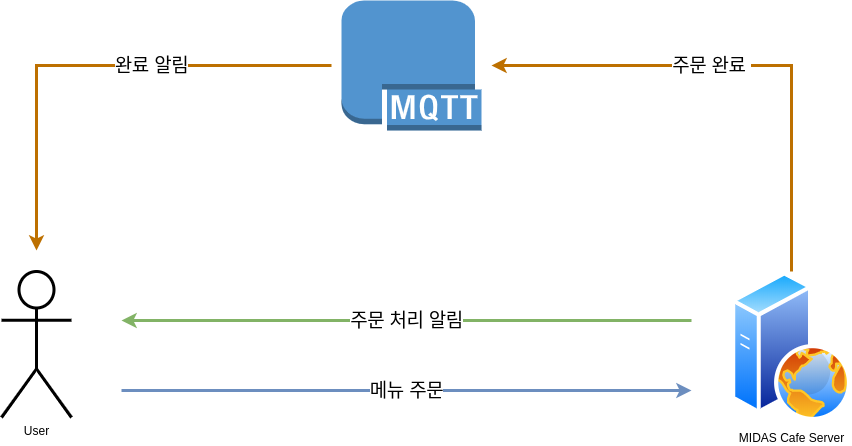
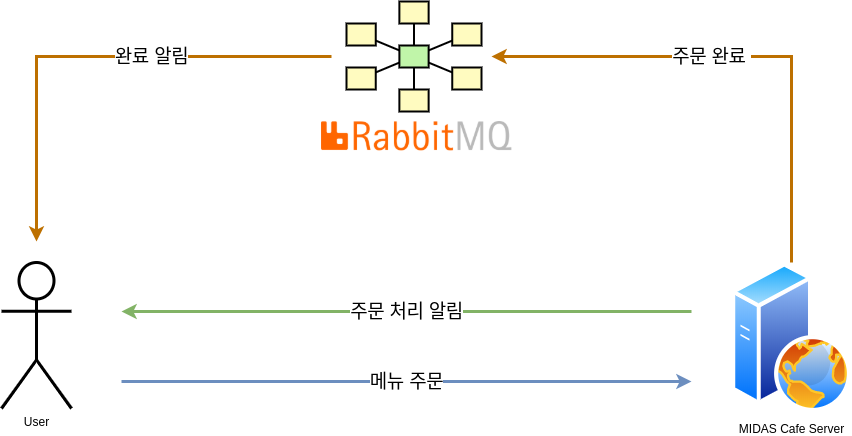
Add Refresh Token API, RabbitMQ (#6)
* Add RabbitMQ...

* Fix Order Processing..

* Add RabbitMQ configuration..

* Add refresh token api and rabbitMQ development environemtn..

* Modified README..

* Additional environment variables..

diff --git a/src/main/java/com/midas2018mobile5/serverapp/dao/order/OrderService.java b/src/main/java/com/midas2018mobile5/serverapp/dao/order/OrderService.java
@@ -3,9 +3,12 @@ package com.midas2018mobile5.serverapp.dao.order;
 import com.midas2018mobile5.serverapp.domain.cafe.Cafe;
 import com.midas2018mobile5.serverapp.domain.order.Order;
 import com.midas2018mobile5.serverapp.domain.user.userEntity.User;
+import com.midas2018mobile5.serverapp.dto.order.OrderDto;
 import com.midas2018mobile5.serverapp.error.exception.order.OrderNotFoundException;
 import com.midas2018mobile5.serverapp.repository.order.OrderRepository;
+import com.midas2018mobile5.serverapp.repository.user.UserRepository;
 import lombok.RequiredArgsConstructor;
+import org.springframework.amqp.core.AmqpTemplate;
 import org.springframework.stereotype.Service;
 import org.springframework.transaction.annotation.Transactional;
 
@@ -20,7 +23,9 @@ import java.util.Optional;
 @Transactional
 @RequiredArgsConstructor
 public class OrderService {
+    private final UserRepository userRepository;
     private final OrderRepository orderRepository;
+    private final AmqpTemplate amqpTemplate;
 
     @Transactional(readOnly = true)
     public Order findById(long id) {
@@ -40,18 +45,30 @@ public class OrderService {
     public Order acceptOrderById(long id) {
         final Order order = findById(id);
         order.setReady();
+
+        amqpTemplate.convertAndSend(order.getUser().getUserid(),
+                OrderDto.Event.builder().order(order).build());
+
         return order;
     }
 
     public Order purchaseOrderById(long id) {
         final Order order = findById(id);
         order.setPurchased();
+
+        amqpTemplate.convertAndSend(OrderEvent.orderProcessBasket,
+                OrderDto.Event.builder().order(order).build());
+
         return order;
     }
 
     public Order finishOrderById(long id) {
         final Order order = findById(id);
         order.setFinish();
+
+        amqpTemplate.convertAndSend(order.getUser().getUserid(),
+                OrderDto.Event.builder().order(order).build());
+
         return order;
     }
 

diff --git a/src/main/java/com/midas2018mobile5/serverapp/config/RabbitMQconfig.java b/src/main/java/com/midas2018mobile5/serverapp/config/RabbitMQconfig.java
@@ -1,0 +1,43 @@
+package com.midas2018mobile5.serverapp.config;
+
+import com.midas2018mobile5.serverapp.dao.order.OrderEvent;
+import lombok.RequiredArgsConstructor;
+import org.springframework.amqp.core.Queue;
+import org.springframework.amqp.core.QueueBuilder;
+import org.springframework.amqp.rabbit.connection.ConnectionFactory;
+import org.springframework.amqp.rabbit.core.RabbitTemplate;
+import org.springframework.amqp.support.converter.Jackson2JsonMessageConverter;
+import org.springframework.context.annotation.Bean;
+import org.springframework.context.annotation.Configuration;
+
+/**
+ * Created by Neon K.I.D on 4/29/20
+ * Blog : https://blog.neonkid.xyz
+ * Github : https://github.com/NEONKID
+ */
+@Configuration
+@RequiredArgsConstructor
+public class RabbitMQconfig {
+    private final ConnectionFactory connectionFactory;
+
+    @Bean
+    public Queue newOrdered() {
+        return QueueBuilder.durable(OrderEvent.orderProcessBasket).build();
+    }
+
+    @Bean
+    public RabbitTemplate amqpTemplate() {
+        RabbitTemplate rabbitTemplate = new RabbitTemplate();
+        rabbitTemplate.setConnectionFactory(connectionFactory);
+        rabbitTemplate.setMandatory(true);
+        rabbitTemplate.setChannelTransacted(true);
+        rabbitTemplate.setReplyTimeout(60000);
+        rabbitTemplate.setMessageConverter(queueMessageConverter());
+
+        return rabbitTemplate;
+    }
+
+    private Jackson2JsonMessageConverter queueMessageConverter() {
+        return new Jackson2JsonMessageConverter();
+    }
+}

diff --git a/src/main/java/com/midas2018mobile5/serverapp/api/OrderController.java b/src/main/java/com/midas2018mobile5/serverapp/api/OrderController.java
@@ -43,7 +43,7 @@ public class OrderController {
                 .map(OrderDto.Res::new);
     }
 
-    @PreAuthorize("isAuthenticated() and (#dto.getUserid() == principal.username)")
+    @PreAuthorize("isAuthenticated() and (#dto.getUserid() == principal)")
     @PostMapping
     @ResponseStatus(HttpStatus.CREATED)
     public OrderDto.Res newOrder(@RequestBody @Valid final OrderDto.Req dto) {
@@ -74,14 +74,14 @@ public class OrderController {
         return new OrderDto.Res(orderService.acceptOrderById(id));
     }
 
-    @PostAuthorize("isAuthenticated() and (returnObject.userid == principal.username)")
+    @PostAuthorize("isAuthenticated() and (returnObject.userid == principal)")
     @PatchMapping("/purchase/{id}")
     @ResponseStatus(HttpStatus.OK)
     public OrderDto.Res purchaseOrder(@PathVariable long id) {
         return new OrderDto.Res(orderService.purchaseOrderById(id));
     }
 
-    @PostAuthorize("isAuthenticated() and ((returnObject.userid == principal.username) or hasRole('ROLE_ADMIN'))")
+    @PostAuthorize("isAuthenticated() and ((returnObject.userid == principal) or hasRole('ROLE_ADMIN'))")
     @PatchMapping("/cancel/{id}")
     @ResponseStatus(HttpStatus.OK)
     public OrderDto.Res cacnelOrder(@PathVariable long id) {

diff --git a/src/main/java/com/midas2018mobile5/serverapp/repository/order/OrderRepositoryImpl.java b/src/main/java/com/midas2018mobile5/serverapp/repository/order/OrderRepositoryImpl.java
@@ -2,6 +2,7 @@ package com.midas2018mobile5.serverapp.repository.order;
 
 import com.midas2018mobile5.serverapp.domain.cafe.Cafe;
 import com.midas2018mobile5.serverapp.domain.order.Order;
+import com.midas2018mobile5.serverapp.domain.order.OrderStatus;
 import com.midas2018mobile5.serverapp.domain.order.QOrder;
 import com.midas2018mobile5.serverapp.domain.user.userEntity.User;
 import com.querydsl.jpa.JPQLQuery;
@@ -20,7 +21,9 @@ public class OrderRepositoryImpl extends QuerydslRepositorySupport implements Or
     @Override
     public Order findNotPurchasedOrder(User user, Cafe menu) {
         final QOrder order = QOrder.order;
-        final JPQLQuery<Order> query = from(order).where(order.user.eq(user).and(order.cafe.eq(menu)));
+        final JPQLQuery<Order> query = from(order).where(order.user.eq(user)
+                .and(order.cafe.eq(menu))
+                .and(order.status.eq(OrderStatus.NOT_PURCHASED)));
 
         return query.fetchFirst();
     }

diff --git a/src/main/java/com/midas2018mobile5/serverapp/config/security/api/token/TokenController.java b/src/main/java/com/midas2018mobile5/serverapp/config/security/api/token/TokenController.java
@@ -32,9 +32,8 @@ import java.util.Map;
  * Blog : https://blog.neonkid.xyz
  * Github : https://github.com/NEONKID
  */
-@RepositoryRestController
+@RestController
 @RequiredArgsConstructor
-@ResponseBody
 public class TokenController {
     private final PersistentTokenBasedRememberMeServices rememberMeService;
     private final ApiTokenFactory apiTokenFactory;
@@ -55,7 +54,7 @@ public class TokenController {
 //    }
 
     @PreAuthorize("isAuthenticated()")
-    @PostMapping(value = "/token")
+    @PostMapping(value = "/api/token")
     @ResponseStatus(value = HttpStatus.OK)
     public RefreshToken refresh(@RequestHeader(HttpHeaders.AUTHORIZATION) String token) {
         String accessToken = apiTokenFactory.extract(token);

diff --git a/src/main/java/com/midas2018mobile5/serverapp/dto/order/OrderDto.java b/src/main/java/com/midas2018mobile5/serverapp/dto/order/OrderDto.java
@@ -61,4 +61,20 @@ public class OrderDto {
             this.status = order.getStatus();
         }
     }
+
+    @Getter
+    public static class Event {
+        private long id;
+        private String userid;
+        private String menuName;
+        private int amount;
+
+        @Builder
+        public Event(final Order order) {
+            this.id = order.getId();
+            this.userid = order.getUser().getUserid();
+            this.menuName = order.getCafe().getName();
+            this.amount = order.getAmount();
+        }
+    }
 }

diff --git a/src/main/java/com/midas2018mobile5/serverapp/dao/order/OrderEvent.java b/src/main/java/com/midas2018mobile5/serverapp/dao/order/OrderEvent.java
@@ -1,0 +1,10 @@
+package com.midas2018mobile5.serverapp.dao.order;
+
+/**
+ * Created by Neon K.I.D on 4/29/20
+ * Blog : https://blog.neonkid.xyz
+ * Github : https://github.com/NEONKID
+ */
+public interface OrderEvent {
+    String orderProcessBasket = "cafe.order.basket";
+}
